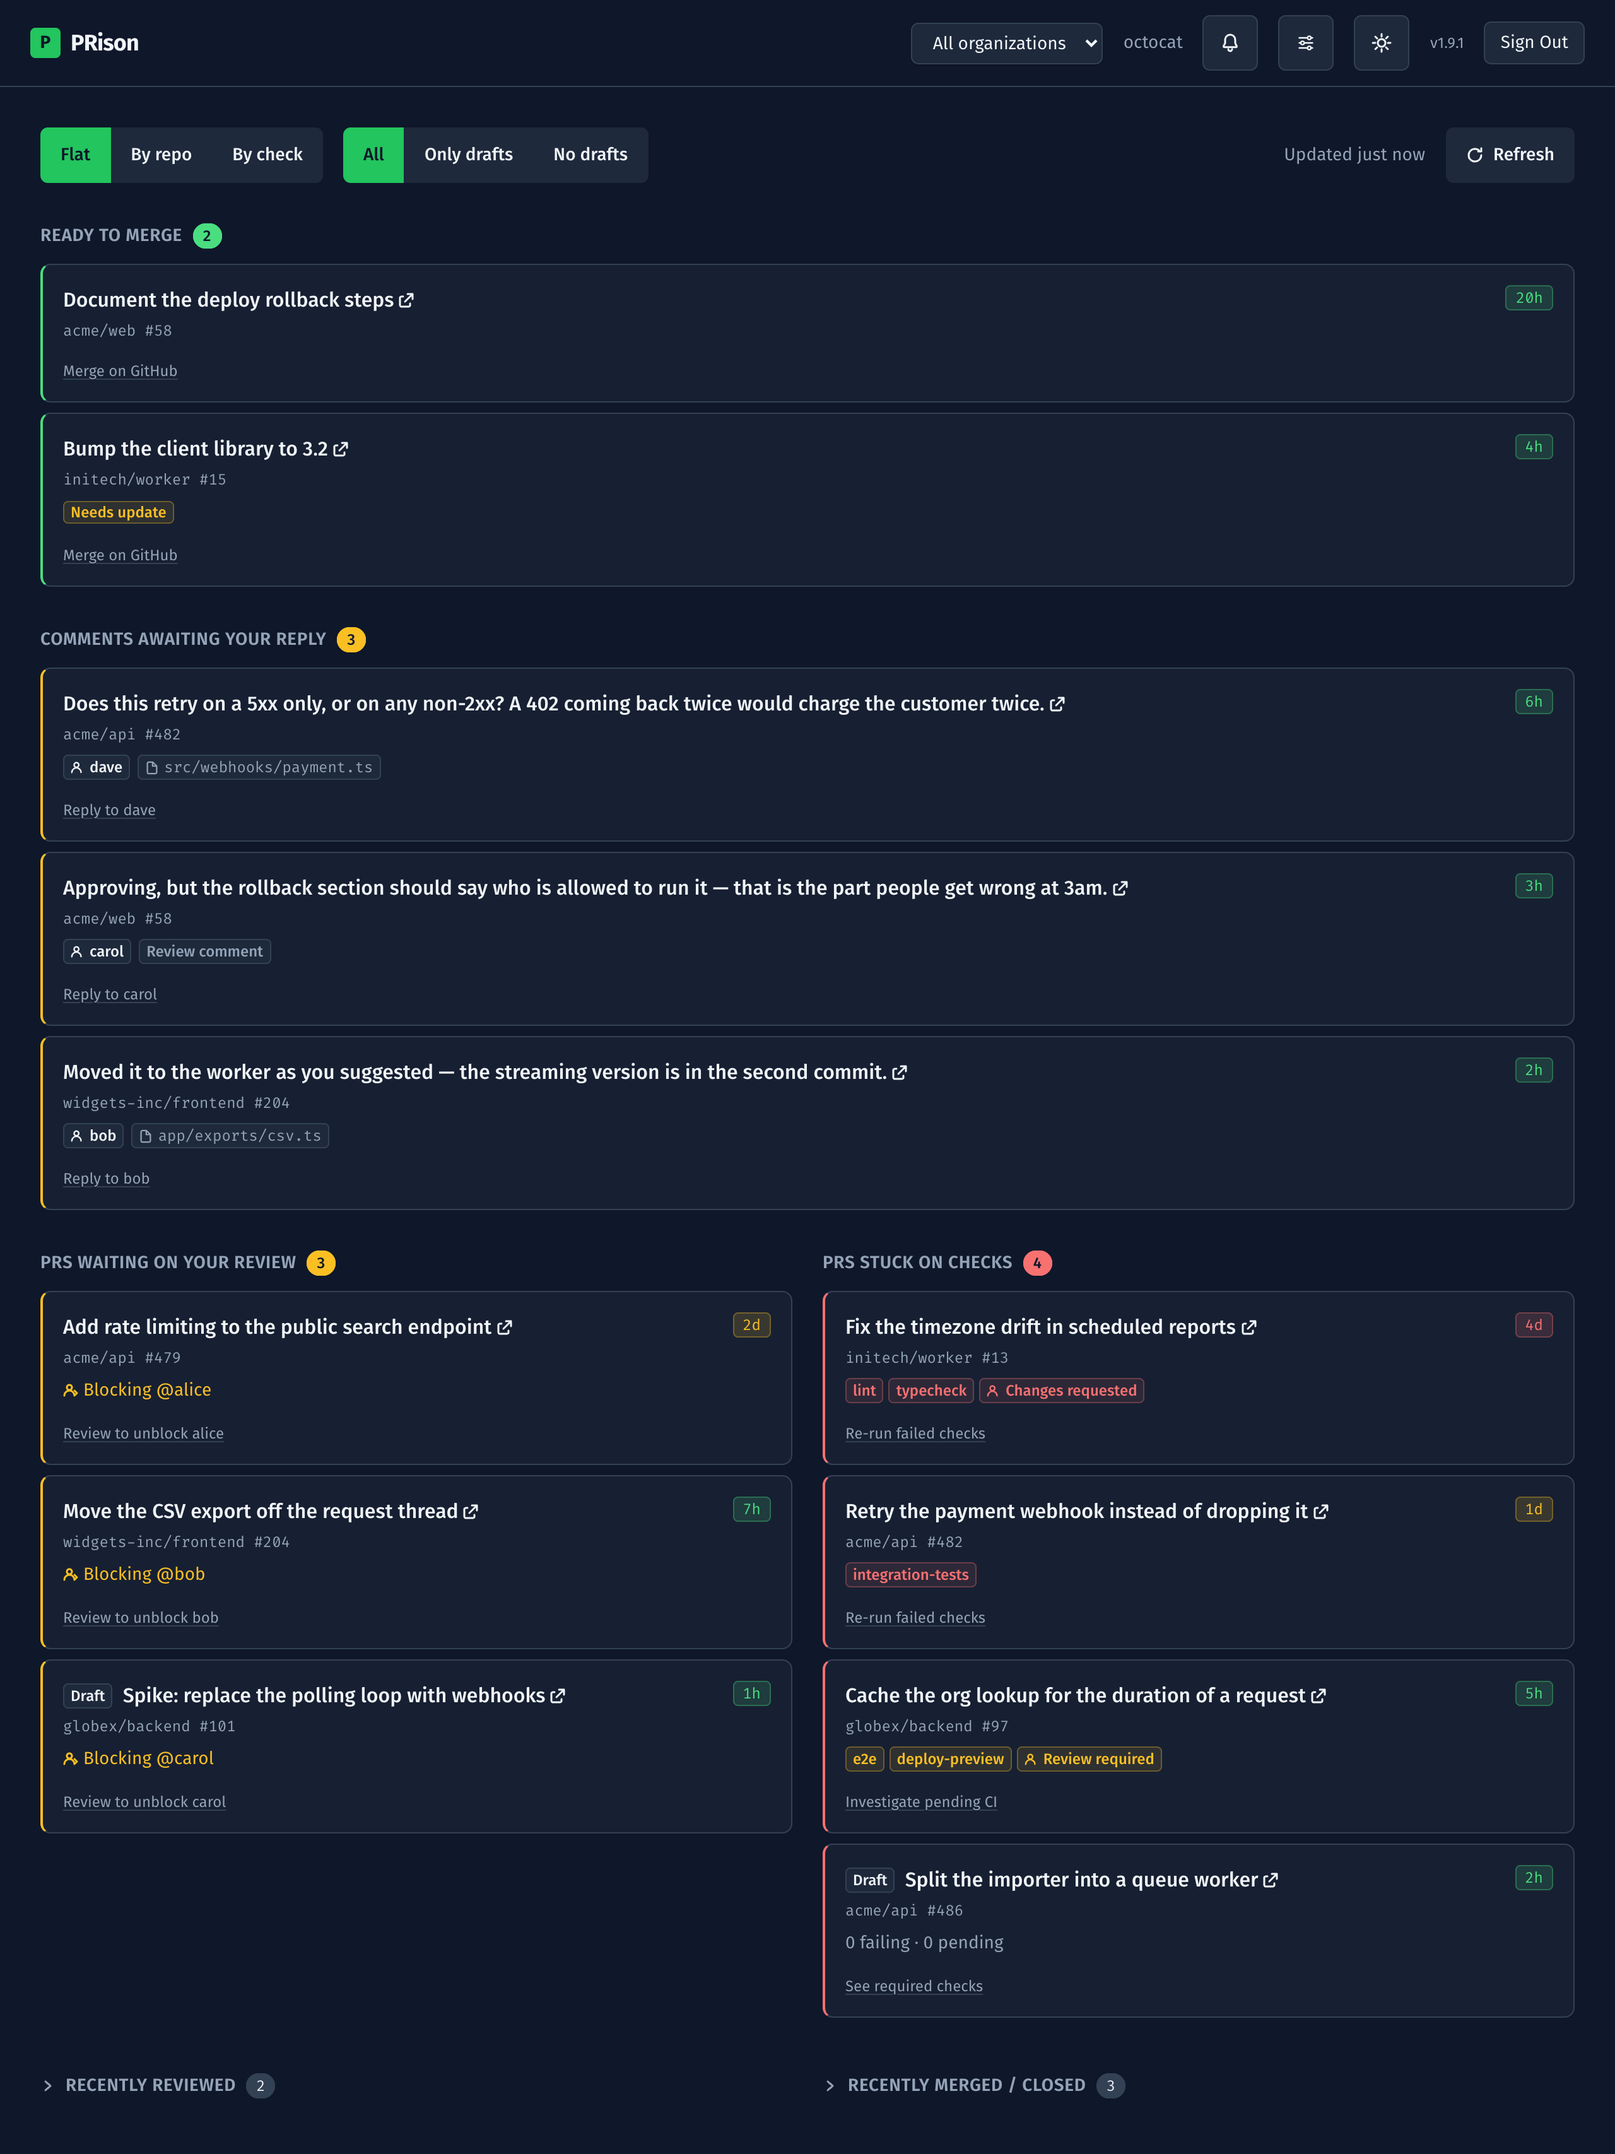
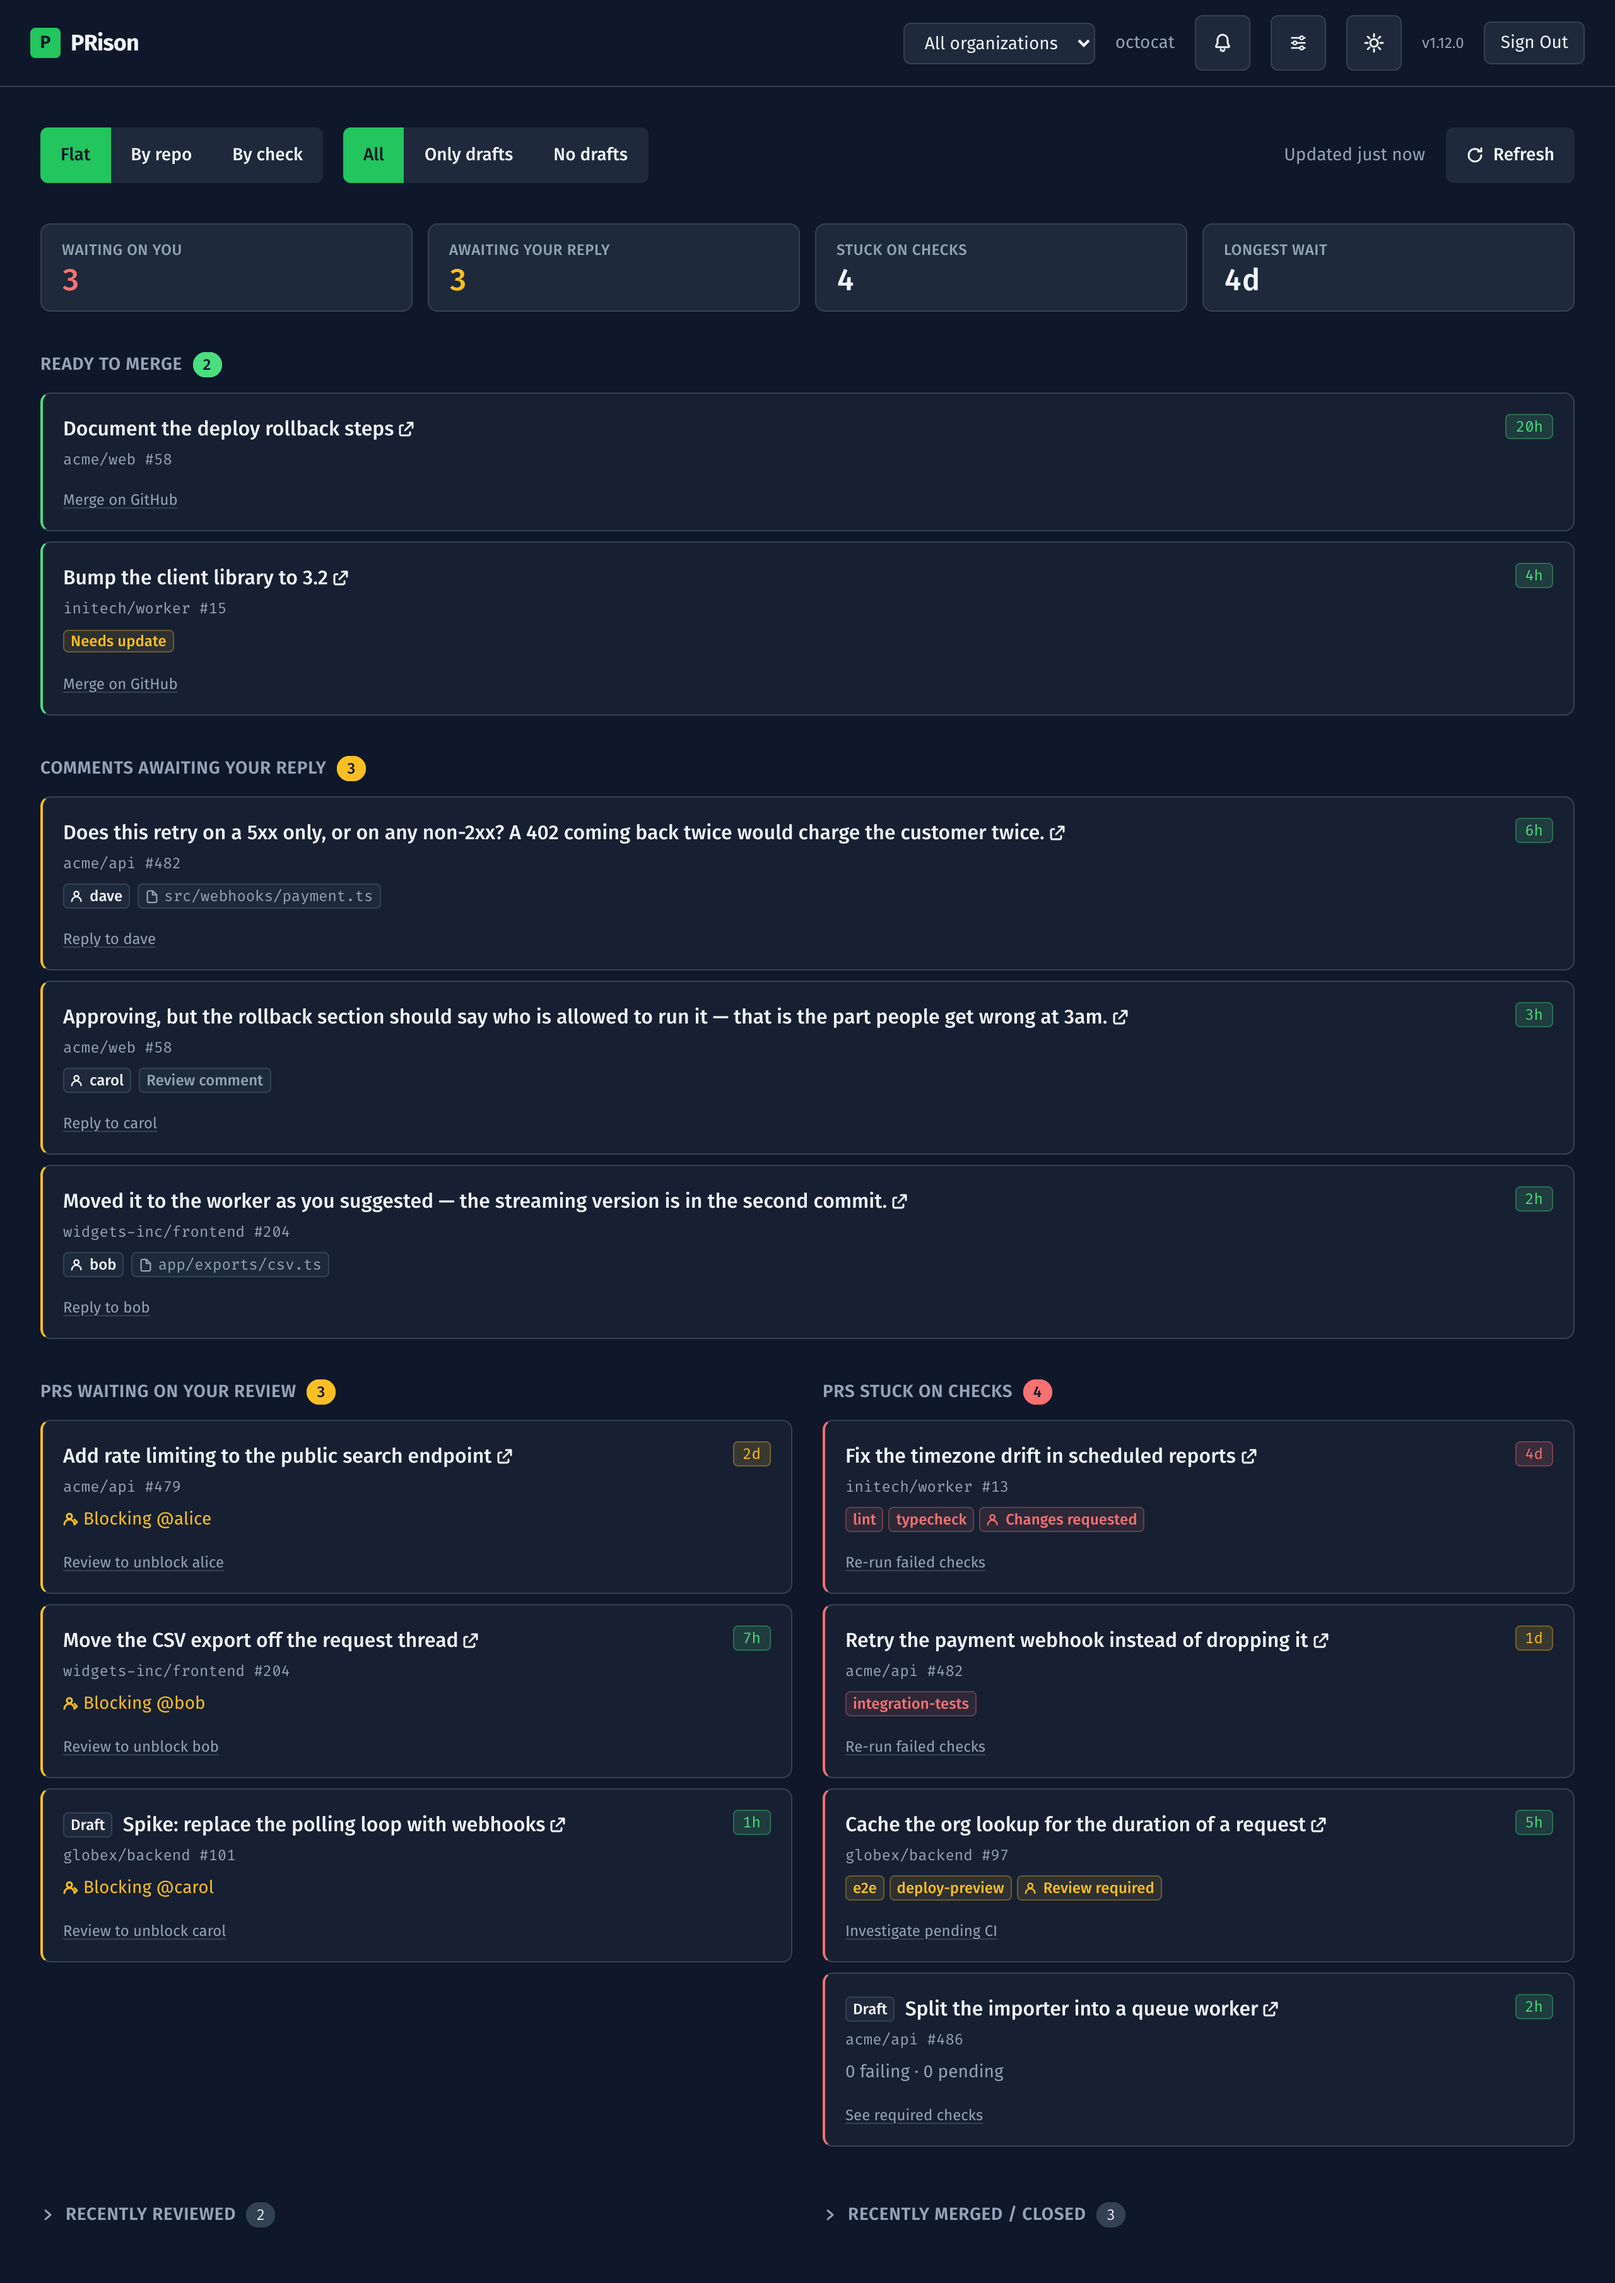
feat: summary tiles above the lists
Four tiles answering "how bad is it right now" before you scroll: how many PRs
wait on your review, how many comments wait on your reply, how many of your own
are stuck on checks, and the longest anything has been waiting.

Every number counts a list that is already on the page — no query is added. The
counts come from the *visible* lists rather than the fetched ones, which is the
part that has to be right: a tile that disagrees with the list directly beneath
it is worse than no tile at all, and every filter (drafts, bots, reacted, the
org switcher) would produce exactly that disagreement otherwise.

The longest wait needs no scan. Each list is already sorted oldest-first, so
its head is its own longest wait and the answer is the earliest of three.

Two decisions worth stating:

- Ready to merge gets no tile. It is the one queue you want to be long, and a
  row that reads as a warning has no place for good news.
- Only the two tiles where somebody else is held up by you carry a status
  colour. Stuck-on-checks is your own PR waiting on a machine. Colouring all
  four would colour none of them.

A zero renders like any other value: a row that changes width as counts drop is
harder to scan than a stable one, and "nothing is waiting on you" is worth
seeing. An empty queue shows an em dash rather than 0m — no wait is not a wait
of zero.

docs/screenshot.png regenerated from the synthetic demo board, and the alt text
rewritten for the new row.

Closes #38
[…]

diff --git a/components/SummaryTiles.test.tsx b/components/SummaryTiles.test.tsx
@@ -1,0 +1,92 @@
+import { describe, it, expect } from "vitest";
+import { render, screen } from "@testing-library/react";
+import { SummaryTiles, oldestOf } from "./SummaryTiles";
+
+const NOW = new Date("2026-08-11T12:00:00Z");
+const tile = (label: string) =>
+  screen.getByText(label).parentElement as HTMLElement;
+
+describe("oldestOf", () => {
+  it("returns the earliest of the timestamps", () => {
+    expect(
+      oldestOf(
+        "2026-08-11T09:00:00Z",
+        "2026-08-09T09:00:00Z",
+        "2026-08-10T09:00:00Z",
+      ),
+    ).toBe("2026-08-09T09:00:00Z");
+  });
+
+  it("ignores the lists that have no head", () => {
+    expect(oldestOf(undefined, "2026-08-10T09:00:00Z", undefined)).toBe(
+      "2026-08-10T09:00:00Z",
+    );
+  });
+
+  it("returns null when every list is empty", () => {
+    expect(oldestOf(undefined, undefined, undefined)).toBeNull();
+  });
+});
+
+describe("SummaryTiles", () => {
+  const props = {
+    waiting: 3,
+    stuck: 5,
+    replies: 2,
+    oldest: "2026-08-09T12:00:00Z",
+    now: NOW,
+  };
+
+  it("shows a count for each queue", () => {
+    render(<SummaryTiles {...props} />);
+    expect(tile("Waiting on you")).toHaveTextContent("3");
+    expect(tile("Awaiting your reply")).toHaveTextContent("2");
+    expect(tile("Stuck on checks")).toHaveTextContent("5");
+  });
+
+  it("shows the longest wait as an age rather than a timestamp", () => {
+    render(<SummaryTiles {...props} />);
+    expect(tile("Longest wait")).toHaveTextContent("2d");
+  });
+
+  // A zero is information: how many are waiting on you is worth reading when
+  // the answer is none, and a row that changes width as counts drop is harder
+  // to scan than a stable one.
+  it("renders a zero rather than dropping the tile", () => {
+    render(<SummaryTiles {...props} waiting={0} />);
+    expect(tile("Waiting on you")).toHaveTextContent("0");
+    expect(screen.getAllByTestId("summary-tile")).toHaveLength(4);
+  });
+
+  // No queue is not a wait of zero, so it must not read as one.
+  it("shows a dash, not a zero age, when nothing is waiting", () => {
+    render(<SummaryTiles {...props} oldest={null} />);
+    expect(tile("Longest wait")).toHaveTextContent("—");
+    expect(tile("Longest wait")).not.toHaveTextContent("0m");
+  });
+
+  // Colouring every tile would colour none of them. Only the two where someone
+  // else is held up by the viewer carry a status token.
+  it("colours only the two tiles the viewer is blocking", () => {
+    render(<SummaryTiles {...props} />);
+    expect(tile("Waiting on you").querySelector("dd")).toHaveClass(
+      "text-danger",
+    );
+    expect(tile("Awaiting your reply").querySelector("dd")).toHaveClass(
+      "text-warning",
+    );
+    expect(tile("Stuck on checks").querySelector("dd")).toHaveClass(
+      "text-foreground",
+    );
+    expect(tile("Longest wait").querySelector("dd")).toHaveClass(
+      "text-foreground",
+    );
+  });
+
+  // "Ready to merge" is good news; a row that reads as a warning has no place
+  // for it.
+  it("has no tile for ready to merge", () => {
+    render(<SummaryTiles {...props} />);
+    expect(screen.queryByText(/ready to merge/i)).not.toBeInTheDocument();
+  });
+});

diff --git a/components/SummaryTiles.tsx b/components/SummaryTiles.tsx
@@ -1,0 +1,80 @@
+import { relativeAge } from "@/lib/prioritize";
+
+/**
+ * The earliest of the timestamps given, or null when none are present.
+ *
+ * Compares the ISO strings rather than parsing them: GitHub returns one format
+ * with one zone, so lexical order is chronological order, and the codebase
+ * already leans on that elsewhere.
+ */
+export function oldestOf(...times: Array<string | undefined>): string | null {
+  const present = times.filter((t): t is string => Boolean(t));
+  if (present.length === 0) return null;
+  return present.reduce((a, b) => (a < b ? a : b));
+}
+
+/**
+ * How bad it is right now, above the lists rather than inside them.
+ *
+ * Every number here is a count of a list already on the page — nothing is
+ * fetched for this row. The counts must come from the *visible* lists, or a
+ * tile would contradict the list directly beneath it the moment a filter hides
+ * something.
+ *
+ * "Ready to merge" is deliberately absent: it is the one list that is good
+ * news, and a queue you want to be long does not belong in a row that reads as
+ * a warning.
+ */
+export function SummaryTiles({
+  waiting,
+  stuck,
+  replies,
+  oldest,
+  now,
+}: {
+  waiting: number;
+  stuck: number;
+  replies: number;
+  oldest: string | null;
+  now: Date;
+}) {
+  // Danger and warning go to the two tiles where somebody else is held up by
+  // you. Stuck-on-checks is your own PR waiting on a machine, and the longest
+  // wait is a fact about the others rather than a fourth queue, so both stay
+  // neutral — colouring everything would colour nothing.
+  const tiles = [
+    { label: "Waiting on you", value: waiting, tone: "text-danger" },
+    { label: "Awaiting your reply", value: replies, tone: "text-warning" },
+    { label: "Stuck on checks", value: stuck, tone: "text-foreground" },
+    {
+      label: "Longest wait",
+      // An em dash, not "0" — no queue is not a wait of zero.
+      value: oldest ? relativeAge(oldest, now) : "—",
+      tone: "text-foreground",
+    },
+  ];
+
+  return (
+    <dl className="grid grid-cols-2 gap-3 sm:grid-cols-4">
+      {tiles.map(({ label, value, tone }) => (
+        <div
+          key={label}
+          data-testid="summary-tile"
+          className="flex flex-col gap-1 rounded-lg border border-border bg-surface px-4 py-3"
+        >
+          <dt className="text-xs font-medium tracking-wide text-muted uppercase">
+            {label}
+          </dt>
+          {/* Zeroes render like every other value: a row that changes width as
+              counts drop is harder to read at a glance than a stable one, and
+              "nothing waiting on you" is worth seeing. */}
+          <dd
+            className={`font-mono text-2xl leading-none font-semibold tabular-nums ${tone}`}
+          >
+            {value}
+          </dd>
+        </div>
+      ))}
+    </dl>
+  );
+}

diff --git a/components/Dashboard.tsx b/components/Dashboard.tsx
@@ -5,6 +5,7 @@ import type { Org, StuckPr, ReviewRequest, ReadyPr, PrComment, ClosedPr, Reviewe
 import { sortByAgeAsc, sortByAgeDesc, relativeAge } from "@/lib/prioritize";
 import { suggestStuck, suggestReview, suggestReady, suggestComment, needsReview, stuckGroupKeys, reviewDecisionLabel } from "@/lib/suggest";
 import { PrList } from "./PrList";
+import { SummaryTiles, oldestOf } from "./SummaryTiles";
 import { PrRow } from "./PrRow";
 import { ClosedPrRow } from "./ClosedPrRow";
 import { ReviewedPrRow } from "./ReviewedPrRow";
@@ -850,6 +851,20 @@ export function Dashboard({ orgs, login }: DashboardProps) {
             Refresh
           </button>
         </div>
+        {/* Counts of the visible lists, so a tile can never disagree with the
+            list under it. Each list is sorted oldest-first, so its head is its
+            longest wait and no scan is needed to find the worst of the three. */}
+        <SummaryTiles
+          waiting={visibleReviews.length}
+          stuck={visibleStuck.length}
+          replies={visibleComments.length}
+          oldest={oldestOf(
+            visibleReviews[0]?.requestedAt,
+            visibleStuck[0]?.stuckSince,
+            visibleComments[0]?.commentedAt,
+          )}
+          now={new Date()}
+        />
         {/* Ready-to-merge — full-width section above the two-column review/stuck grid */}
         <div className="flex flex-col gap-4">
           {readyError && (

diff --git a/components/Dashboard.test.tsx b/components/Dashboard.test.tsx
@@ -834,6 +834,24 @@ describe("Dashboard", () => {
     );
   });
 
+  // The tiles count the same visible lists the sections render, so a filter can
+  // never leave a tile disagreeing with the list right under it — the one way a
+  // summary row is worse than no summary row at all.
+  it("counts only what the draft filter leaves visible", async () => {
+    global.fetch = draftsAndNot();
+    render(<Dashboard orgs={ORGS} login="testuser" />);
+    expect(await screen.findByText("draft stuck pr")).toBeInTheDocument();
+
+    const tile = (label: string) =>
+      screen.getByText(label).parentElement as HTMLElement;
+    expect(tile("Stuck on checks")).toHaveTextContent("2");
+    expect(tile("Waiting on you")).toHaveTextContent("2");
+
+    fireEvent.click(draftButton(/no drafts/i));
+    await waitFor(() => expect(tile("Stuck on checks")).toHaveTextContent("1"));
+    expect(tile("Waiting on you")).toHaveTextContent("1");
+  });
+
   it("persists the draft filter to localStorage", async () => {
     render(<Dashboard orgs={ORGS} login="testuser" />);
     expect(await screen.findByText("stuck pr")).toBeInTheDocument();

diff --git a/README.md b/README.md
@@ -31,7 +31,7 @@ access. Four lists, oldest first, plus two history sections:
 Both history sections sit side by side, collapsed by default with a count, and
 expand to the latest 15 with **Load more** for the rest.
 
-![The PRison dashboard in dark mode, showing the filter bar's grouping and draft filters above the four PR lists — ready to merge, comments awaiting your reply, PRs waiting on your review, and PRs stuck on checks — with the recently reviewed and recently merged / closed histories collapsed at the bottom](docs/screenshot.png)
+![The PRison dashboard in dark mode. At the top, the filter bar's grouping and draft filters; below it a row of four summary tiles (waiting on you, awaiting your reply, stuck on checks, longest wait); then the four PR lists — ready to merge, comments awaiting your reply, PRs waiting on your review, and PRs stuck on checks — with the recently reviewed and recently merged / closed histories collapsed at the bottom](docs/screenshot.png)
 
 ### Features
 
@@ -54,6 +54,13 @@ expand to the latest 15 with **Load more** for the rest.
   badged **Merged** or **Closed** with how long ago it ended — and next to them
   the PRs you reviewed, so a discussion you left open is one click away instead
   of lost in GitHub's notification list.
+- **Summary tiles** above the lists: how many PRs wait on your review, how many
+  comments wait on your reply, how many of yours are stuck on checks, and the
+  longest anything has been waiting. The two where someone else is held up by
+  you are coloured; the rest stay quiet. They count the lists as filtered, so a
+  tile never disagrees with the list beneath it, and they cost no extra API
+  calls — it is all data already on the page. *Ready to merge* has no tile: it
+  is the one queue you want to be long.
 - **Grouping** — flat, by repository, or by check. Each group is a panel you can
   fold away by its header, so a repo you are not working in today stops taking
   up the screen while its name and count stay in view. Next to it in the filter
